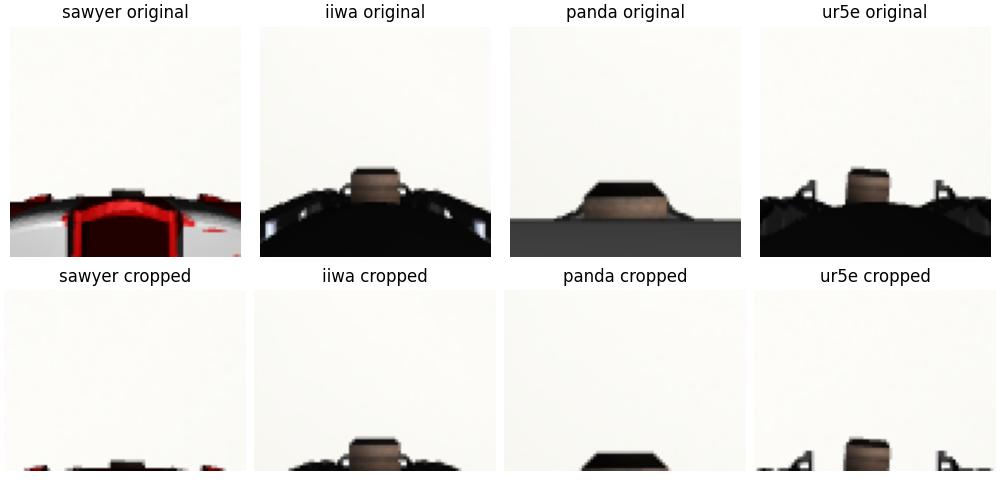
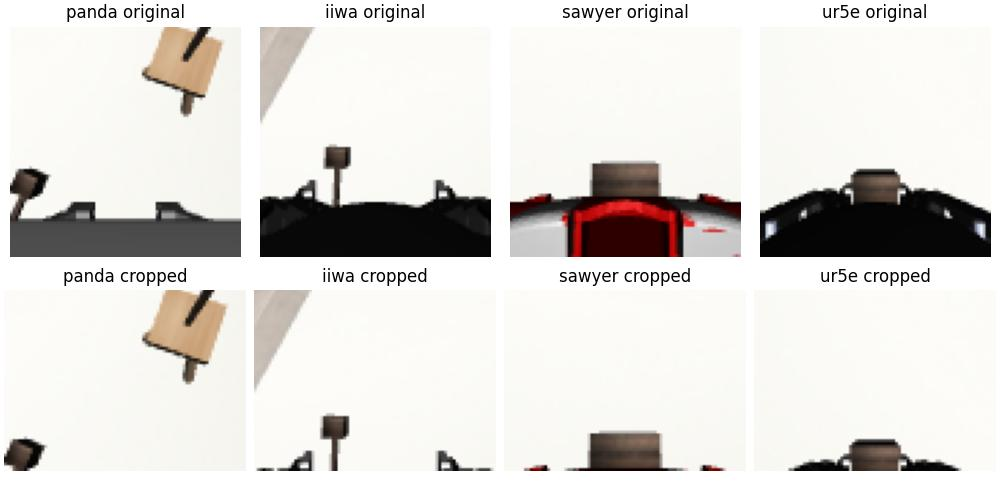
Updates for the sake of updates

diff --git a/data/discover/dataset.py b/data/discover/dataset.py
@@ -1,7 +1,7 @@
 import os 
 import h5py 
 import pandas as pd
-from typing import Dict, List, Optional,  Tuple
+from typing import Dict, List, Optional, Tuple
 
 import torch
 from torch.utils.data import Dataset 
@@ -12,9 +12,11 @@ from data.discover.utils.transforms import get_transforms
 class MimicGenRobotDataset(Dataset): 
     def __init__(self, 
         demo_map: List[Tuple[os.PathLike, int, int]],
+        df_gripper: pd.DataFrame, 
         depths: pd.DataFrame,
         window: int,
         chunks: int, 
+        crop_factor: float, 
         depth: Optional[bool], 
         expand_depth: str, # grayscale, colormap 
         transforms: List[str]
@@ -22,9 +24,11 @@ class MimicGenRobotDataset(Dataset):
         super().__init__()
         
         self.demo_map = demo_map
+        self.df_gripper = df_gripper
         self.depths = depths
         self.window = window
         self.chunks = chunks 
+        self.crop_factor = crop_factor
         self.depth = depth 
         self.expand_depth = expand_depth 
         self.transforms = get_transforms(transforms)
@@ -40,43 +44,56 @@ class MimicGenRobotDataset(Dataset):
         state["_file_cache"] = {}
         return state
     
-    def __del__(self):
-      for f in self._file_cache.values():
-          try:
-              f.close()
-          except Exception:
-              pass
+    # def __del__(self):
+    #   for f in self._file_cache.values():
+    #       try:
+    #           f.close()
+    #       except Exception:
+    #           pass
     
     def __getitem__(self, idx):
         item = {}
         file, demo, n_steps =  self.demo_map[idx]
         
-        ofs = torch.randint(low=0, high=n_steps-self.window, shape=(self.chunks, ))
-        idxs = torch.arange(start=0, end=self.window) + ofs
+        robot = file.split(".")[-1]
+        task = file.split(".")[-1]
+        
+        offset = torch.randint(low=0, high=n_steps-self.window, shape=(self.chunks, ))
+        idxs = torch.arange(start=0, end=self.window) + offset
 
         hf = self._file_cache.get(file)
         if hf is None:
             hf = h5py.File(file, "r")
             self._file_cache[file] = hf
 
-        rgb_obs = hf["data"][demo]["obs"]["robot0_eye_in_hand_image"][idxs]
+        rgb_obs = hf["data"][demo]["obs"]["robot0_eye_in_hand_image"]
+        rgb_obs = rgb_obs[:, :int(rgb_obs.shape[1]*self.crop_factor), ...]
         rgb_obs = torch.from_numpy(rgb_obs).permute(0, 3, 1, 2) # [n, c, h, w]
-                
+                        
         rgb = self.transforms(rgb_obs) 
         rgb_plus = self.transforms(rgb_obs)
         
-        item["rgb"] = rgb
-        item["rgb_plus"] = rgb_plus 
+        item["rgb"] = rgb[idxs]
+        item["rgb_plus"] = rgb_plus[idxs] 
+        
         
         if self.depth: 
-            depth_obs = hf["data"][demo]["obs"]["robot0_eye_in_hand_depth"][idxs]
+            depth_obs = hf["data"][demo]["obs"]["robot0_eye_in_hand_depth"]
+            depth_obs = depth_obs[:, :int(depth_obs.shape[1]*self.crop_factor), ...]
             depth_obs = torch.from_numpy(depth_obs).permute(0, 3, 1, 2) # [n, 1, h, w]
             
-            depth_anchor = self.transforms(depth_obs) 
+            depth = self.transforms(depth_obs) 
             depth_plus = self.transforms(depth_obs)
-             
-            item["rgb"] = rgb
-            item["rgb_plus"] = rgb_plus 
+            item["depth"] = depth[idxs]
+            item["depth_plus"] = depth_plus[idxs]
             
+        gripper_qpos = hf["data"][demo]["obs"]["robot0_gripper_qpos"] # [n, d]: d in {2, 6}
+        gripper_min = self.df_gripper[robot][task]["min"] # [d, ]
+        gripper_max = self.df_gripper[robot][task]["max"] # [d, ]
+        
+        gripper_qpos[:, 0] = (gripper_qpos[:, 0] - gripper_min[0]) / (gripper_max[0] - gripper_min[0]) 
+        gripper_qpos[:, 1] = (gripper_qpos[:, 1] - gripper_min[1]) / (gripper_max[1] - gripper_min[1]) 
+        
+        item["gripper_qpos"] = gripper_qpos[idxs]
         
         return item 

diff --git a/data/discover/datamodule.py b/data/discover/datamodule.py
@@ -1,4 +1,5 @@
 import os 
+import pandas as pd
 from typing import  List, Optional, Tuple, Union
 
 import lightning as pl 
@@ -15,7 +16,8 @@ class MimicGenRobotDataModule(pl.LightningDataModule):
         data_dir: os.PathLike, # directory containing the hdf5 trajectory files 
         meta_dir: os.PathLike, # directory containing the hdf5 files metadata (e.g. min & max of depth maps)
         window: int,
-        chunks: int, 
+        chunks: int,
+        crop_factor: float,  
         depth: bool, 
         robots: Optional[Union[str, List]], 
         tasks: Optional[Union[str, List]], 
@@ -36,7 +38,8 @@ class MimicGenRobotDataModule(pl.LightningDataModule):
         self.data_dir = data_dir
         self.meta_dir = meta_dir
         self.window = window
-        self.chunks = chunks 
+        self.chunks = chunks
+        self.crop_factor = crop_factor 
         self.depth = depth 
         self.robots = list(robots) if isinstance(robots, str) else robots
         self.tasks = list(tasks)  if isinstance(robots, str) else tasks
@@ -57,20 +60,23 @@ class MimicGenRobotDataModule(pl.LightningDataModule):
 
         # File handling 
         self.files = get_files(self.data_dir, self.depth, self.robots, self.tasks)
-        self.depths = get_depths(self.meta_dir)
-        self.metadata = get_metadata(self.meta_dir, self.files)
-        self.demo_map = get_demomap(self.files, self.window)
-        
+        self.depths = None
+        # self.depths = get_depths(self.meta_dir)
+        self.meta_data = get_metadata(self.meta_dir, self.files)
+        self.df_gripper = pd.read_csv(os.path.join(self.meta_dir, "gripper_state.csv"))
+        self.demo_map, self.window = get_demomap(self.meta_data, self.files, self.window)
+    
         self.train_dataset, self.val_dataset, self.test_dataset = self.setup()
-        
-        self.n_samples_per_epoch = len(self.demo_map)
+        self.n_samples_per_epoch = len(self.demo_map) // self.chunks
         
     def setup(self, stage=None) -> Tuple[Dataset, Dataset, Dataset]:
         dataset = MimicGenRobotDataset(
             demo_map=self.demo_map,
+            df_gripper=self.df_gripper, 
             depths=self.depths,
             window=self.window,
             chunks=self.chunks, 
+            crop_factor=self.crop_factor,
             depth=self.depth, 
             expand_depth=self.expand_depth,
             transforms= self.transforms

diff --git a/models/discover/visionBackbone.py b/models/discover/visionBackbone.py
@@ -1,29 +1,28 @@
 import os 
-
 import torch 
 import torch.nn as nn 
 from torchvision.models import resnet18
 from torchtyping import TensorType
-
 import loralib as lora 
 
-from r3m import load_r3m
-
-
 class VisionBackbone(nn.Module): 
-    def __init__(
-        self,
-        weights_path: os.PathLike     
-        ) -> None:
+    def __init__(self, weights_path: os.PathLike) -> None:
         super().__init__()
-
         self.weights_path = weights_path
+        self.model = resnet18(pretrained=False)
+
+        ckpt = torch.load(self.weights_path, map_location="cpu")
+        r3m_state_dict = ckpt.get("state_dict", ckpt)
         
-        if "r3m" in self.weights_path: 
-            self.model = load_r3m
-        else: 
-            self.model = resnet18(weights=torch.load(f=self.weights_path, weights_only=True))
-        
+        clean_state_dict = {}
+        for key, value in r3m_state_dict.items():
+            new_key = key.replace("module.convnav.", "").replace("model.", "")
+            if new_key in self.model.state_dict():
+                clean_state_dict[new_key] = value
+
+        self.model.load_state_dict(clean_state_dict, strict=False)
+        self.model.fc = nn.Identity()
+            
         self._lora()
   
     def _lora(self) -> None: 
@@ -54,10 +53,11 @@ class VisionBackbone(nn.Module):
 
         lora.mark_only_lora_as_trainable(self.model) 
     
-    def forward(self, x) -> TensorType["*"]:
+    def forward(self, x: torch.Tensor) -> TensorType["*"]:
         batch, window = x.shape[:2] 
-        x = x.reshape(-1, *x.shape[2:]).permute(0, 3, 1, 2) # [batch*window, channels=3, height, width]
-        x = self.model(x) # [batch*window, hidden_dim]
-        x = x.reshape(batch, window, -1) # [batch, window, hidden_dim]
+        x = x.reshape(-1, *x.shape[2:]).permute(0, 3, 1, 2) 
+        
+        x = self.model(x)                  
+        x = x.reshape(batch, window, -1) 
         
         return x

diff --git a/models/discover/tse.py b/models/discover/tse.py
@@ -1,7 +1,5 @@
 # Temporal Skill Encoder (TSE)
 
-import wandb
-import numpy as np 
 from typing import Dict
 
 import torch
@@ -9,9 +7,8 @@ from torchtyping import TensorType
 import lightning.pytorch as pl 
 
 from models.discover.cluster import KMeans, RGMM
-
-from .visionBackbone import VisionBackbone
-from .visionEncoder import VisionEncoder
+from models.discover.visionBackbone import VisionBackbone
+from models.discover.visionEncoder import VisionEncoder
 
 
 class TSE(pl.LightningModule): 
@@ -23,7 +20,6 @@ class TSE(pl.LightningModule):
         rgmm_kwargs: Dict,
         optimizer_kwargs: Dict, 
         ) -> None:
-        
         super().__init__()
         self.save_hyperparameters() 
         
@@ -36,7 +32,7 @@ class TSE(pl.LightningModule):
         self.visionBackbone = VisionBackbone(**self.vision_backbone_kwargs)
         self.visionEncoder = VisionEncoder(**self.vision_encoder_kwargs)
         self.kmeans = KMeans(**self.kmeans_kwargs)
-        self.rgmm = None   
+        self.rgmm = RGMM(**self.rgmm_kwargs)   
         
         self.kmeans.eval()
 

diff --git a/models/discover/visionEncoder.py b/models/discover/visionEncoder.py
@@ -59,11 +59,7 @@ class TransformerEncoder(nn.TransformerEncoder):
         return super().forward(src, mask, src_key_padding_mask, is_causal)
 
 class VisionEncoder(nn.Module): 
-    def __init__(
-        self, 
-        encoder_layer_kwargs, 
-        transformer_encoder_kwargs
-        ) -> None:
+    def __init__(self, encoder_layer_kwargs, transformer_encoder_kwargs) -> None:
         super().__init__()
         
         self.encoder_layer_kwargs = encoder_layer_kwargs 

diff --git a/discover_skills.py b/discover_skills.py
@@ -1,6 +1,5 @@
 import hydra
 from hydra.utils import instantiate
-
 import multiprocessing
 
 import lightning.pytorch as pl
